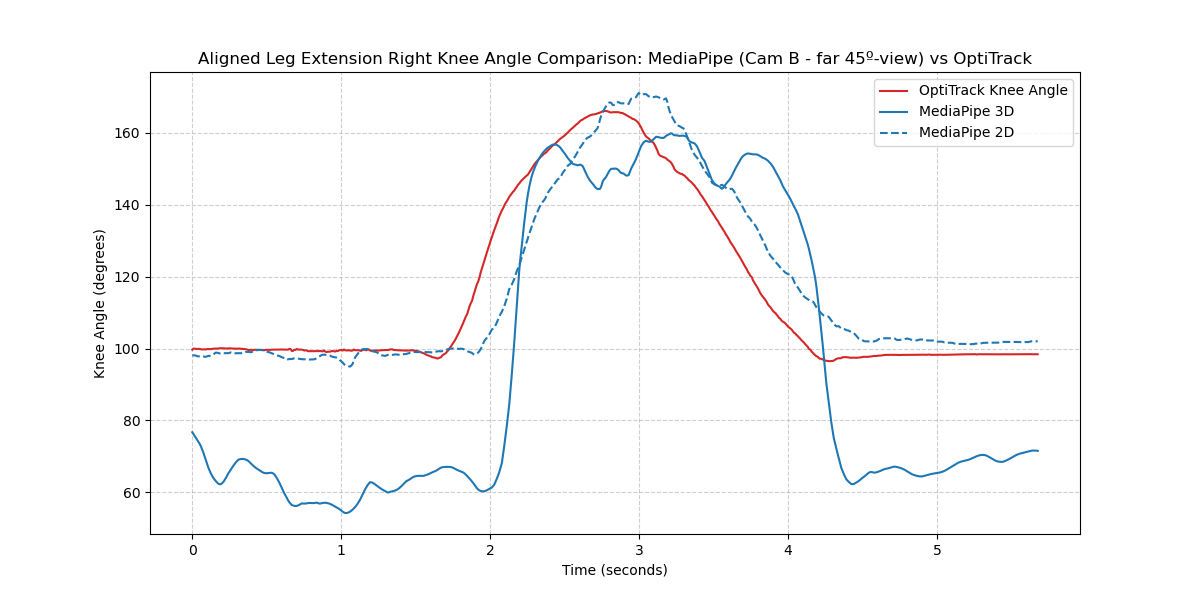
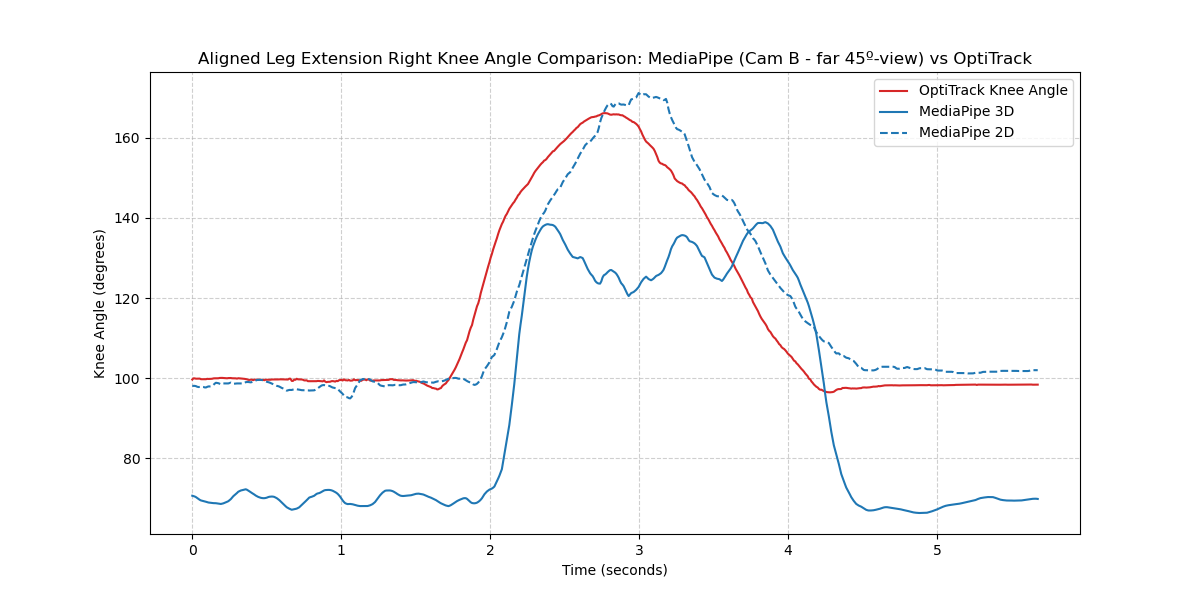
updated charts

diff --git a/media-pipe/validation/comparison.py b/media-pipe/validation/comparison.py
@@ -67,15 +67,15 @@ def process_video(video_path):
 
             if results.pose_landmarks:
                 landmarks = results.pose_landmarks.landmark
-                hip_3d = np.array([landmarks[mp_pose.PoseLandmark.RIGHT_HIP].x,
-                                   landmarks[mp_pose.PoseLandmark.RIGHT_HIP].y,
-                                   landmarks[mp_pose.PoseLandmark.RIGHT_HIP].z])
-                knee_3d = np.array([landmarks[mp_pose.PoseLandmark.RIGHT_KNEE].x,
-                                    landmarks[mp_pose.PoseLandmark.RIGHT_KNEE].y,
+                hip_3d = np.array([landmarks[mp_pose.PoseLandmark.RIGHT_HIP].x * frame_width,
+                                    landmarks[mp_pose.PoseLandmark.RIGHT_HIP].y * frame_height,
+                                    landmarks[mp_pose.PoseLandmark.RIGHT_HIP].z])
+                knee_3d = np.array([landmarks[mp_pose.PoseLandmark.RIGHT_KNEE].x * frame_width,
+                                    landmarks[mp_pose.PoseLandmark.RIGHT_KNEE].y * frame_height,
                                     landmarks[mp_pose.PoseLandmark.RIGHT_KNEE].z])
-                ankle_3d = np.array([landmarks[mp_pose.PoseLandmark.RIGHT_ANKLE].x,
-                                     landmarks[mp_pose.PoseLandmark.RIGHT_ANKLE].y,
-                                     landmarks[mp_pose.PoseLandmark.RIGHT_ANKLE].z])
+                ankle_3d = np.array([landmarks[mp_pose.PoseLandmark.RIGHT_ANKLE].x * frame_width,
+                                    landmarks[mp_pose.PoseLandmark.RIGHT_ANKLE].y * frame_height,
+                                    landmarks[mp_pose.PoseLandmark.RIGHT_ANKLE].z])
                 
                 # Apply smoothing
                 hip_3d = smooth_point(hip_buffer, hip_3d)
@@ -84,8 +84,8 @@ def process_video(video_path):
 
                 # Normalize 3D Z-coordinates
                 hip_3d[2] = 0
-                knee_3d[2] -= hip_3d[2]
-                ankle_3d[2] -= hip_3d[2]
+                knee_3d[2] = (knee_3d[2] - landmarks[mp_pose.PoseLandmark.RIGHT_HIP].z) * frame_width
+                ankle_3d[2] = (ankle_3d[2] - landmarks[mp_pose.PoseLandmark.RIGHT_HIP].z) * frame_width
                 
                 hip_2d = (int(landmarks[mp_pose.PoseLandmark.RIGHT_HIP].x * frame_width), 
                       int(landmarks[mp_pose.PoseLandmark.RIGHT_HIP].y * frame_height))
@@ -251,7 +251,7 @@ def align_and_plot(mp_knee_angles_3d, mp_knee_angles_2d, fps_mp, opt_knee_angles
     plt.xlabel("Time (seconds)")
     plt.ylabel("Knee Angle (degrees)")
     plt.legend()
-    plt.title(f"Aligned Squat Right Knee Angle Comparison: MediaPipe ({view}) vs OptiTrack")
+    plt.title(f"Aligned Leg Extension Right Knee Angle Comparison: MediaPipe ({view}) vs OptiTrack")
     plt.grid(True, linestyle="--", alpha=0.6)
     plt.show()
 
@@ -263,19 +263,19 @@ def align_and_plot(mp_knee_angles_3d, mp_knee_angles_2d, fps_mp, opt_knee_angles
 # mp_knee_angles_3d_front, mp_knee_angles_2d_front, fps_mp_front = process_video("media-pipe/images/squat_1_front.MOV")
 
 # Squat 45/45
-opt_knee_angles = process_optitrack("media-pipe/validation/optitrack_data/squat_006.csv")
-mp_knee_angles_3d_side, mp_knee_angles_2d_side, fps_mp_side = process_video("media-pipe/images/squat_6_45_close_leg.mp4")
-mp_knee_angles_3d_front, mp_knee_angles_2d_front, fps_mp_front = process_video("media-pipe/images/squat_6_45_far_leg.MOV")
+# opt_knee_angles = process_optitrack("media-pipe/validation/optitrack_data/squat_006.csv")
+# mp_knee_angles_3d_side, mp_knee_angles_2d_side, fps_mp_side = process_video("media-pipe/images/squat_6_45_close_leg.mp4")
+# mp_knee_angles_3d_front, mp_knee_angles_2d_front, fps_mp_front = process_video("media-pipe/images/squat_6_45_far_leg.MOV")
 
-# # Leg extension Front/Side
+# Leg extension Front/Side
 # opt_knee_angles = process_optitrack("media-pipe/validation/optitrack_data/leg_extension_001.csv")
 # mp_knee_angles_3d_side, mp_knee_angles_2d_side, fps_mp_side = process_video("media-pipe/images/leg_extension_1_side.mp4")
 # mp_knee_angles_3d_front, mp_knee_angles_2d_front, fps_mp_front = process_video("media-pipe/images/leg_extension_1_front.MOV")
 
-# # Leg extension 45/45
-# opt_knee_angles = process_optitrack("media-pipe/validation/optitrack_data/leg_extension_006.csv")
-# mp_knee_angles_3d_side, mp_knee_angles_2d_side, fps_mp_side = process_video("media-pipe/images/leg_extension_6_45_close_leg.mp4")
-# mp_knee_angles_3d_front, mp_knee_angles_2d_front, fps_mp_front = process_video("media-pipe/images/leg_extension_6_45_far_leg.MOV")
+# Leg extension 45/45
+opt_knee_angles = process_optitrack("media-pipe/validation/optitrack_data/leg_extension_006.csv")
+mp_knee_angles_3d_side, mp_knee_angles_2d_side, fps_mp_side = process_video("media-pipe/images/leg_extension_6_45_close_leg.mp4")
+mp_knee_angles_3d_front, mp_knee_angles_2d_front, fps_mp_front = process_video("media-pipe/images/leg_extension_6_45_far_leg.MOV")
 
 # Plot results for side and front views
 align_and_plot(mp_knee_angles_3d_side, mp_knee_angles_2d_side, fps_mp_side, opt_knee_angles, "Cam A - close 45º-view")
